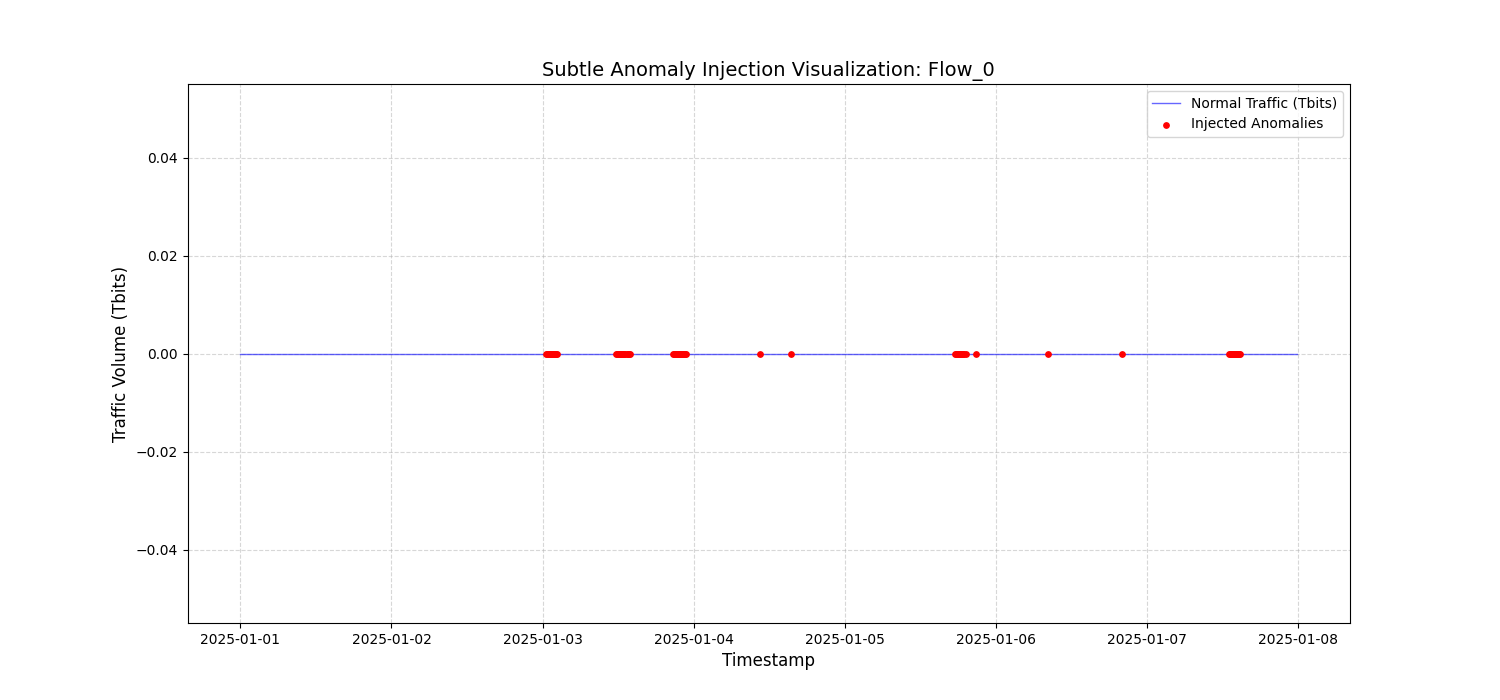
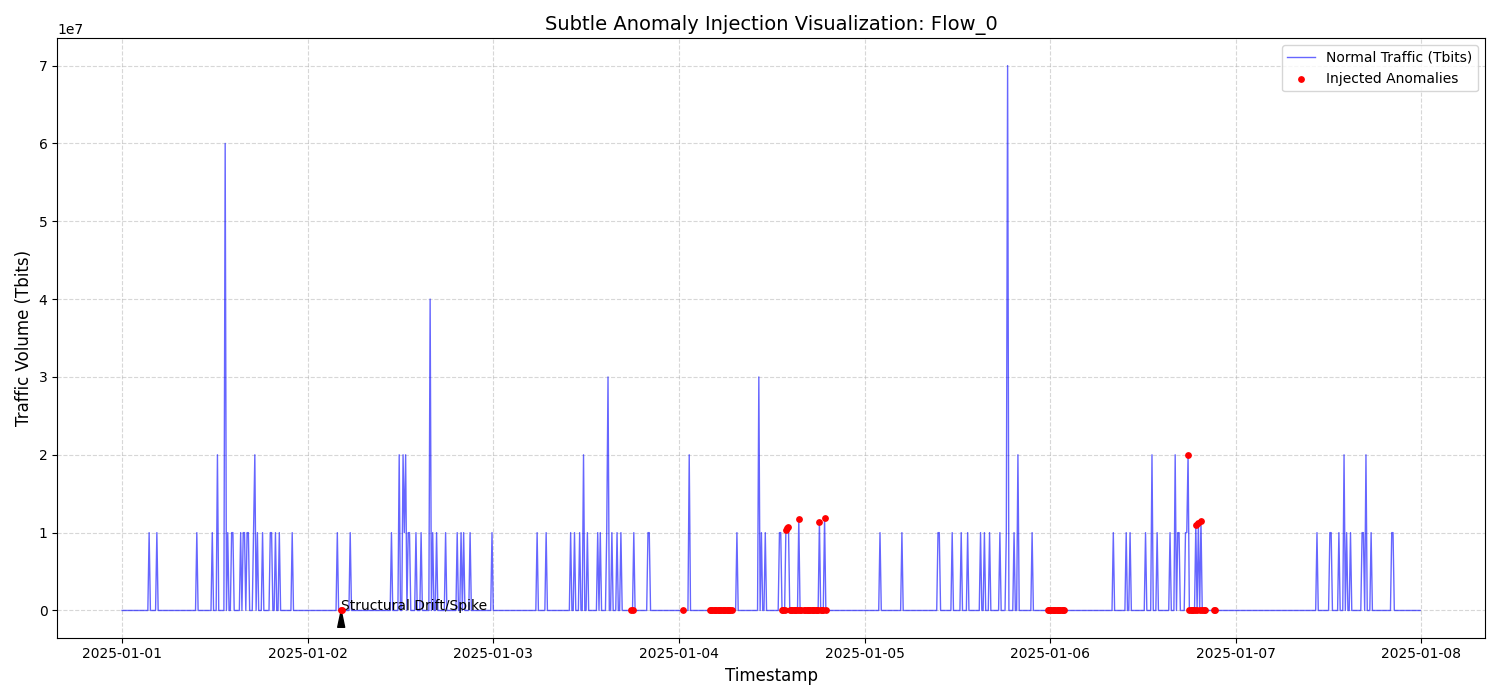
1

diff --git a/trafpy/generate4.py b/trafpy/generate4.py
@@ -10,13 +10,13 @@ START_DATE = '2025-01-01 00:00'
 END_DATE = '2025-01-08 00:00'
 FREQUENCY = '10min'
 OUTPUT_FILE = 'trafpy_master_univariate_data.csv'
-NUM_FLOWS = 1 # Starting with 1 to verify the scale first
+NUM_FLOWS = 1 # Verification run
 
 def generate_diurnal_thesis_dataset():
     time_index = pd.date_range(START_DATE, END_DATE, freq=FREQUENCY, inclusive='left')
     all_flows = []
 
-    print(f"Generating Flow with Raw TrafPy Scale...")
+    print("Generating Traffic with raw scale (no more zero flatline)...")
 
     for f_idx in range(NUM_FLOWS):
         flow_id = f"Flow_{f_idx}"
@@ -30,41 +30,42 @@ def generate_diurnal_thesis_dataset():
             diurnal_scale = 0.8 * np.sin(2 * np.pi * (ts.hour - 8) / 24)
             current_mu = base_mu + diurnal_scale
 
-            # We use 100 samples to create a stable but 'noisy' baseline
-            # No division at the end—we take the raw sum
-            flow_sizes = val_dists.gen_lognormal_dist(current_mu, sigma, 1, 1e9, int(100))
+            # Use int(1000) samples to create a robust baseline
+            # NO DIVISION: We take the raw sum so it shows up on the plot
+            flow_sizes = val_dists.gen_lognormal_dist(current_mu, sigma, 1, 1e7, int(1000))
             volumes[i] = sum(flow_sizes) 
 
         # 2. Inject SUBTLE Anomalies
-        # Multiplying by 1.2x - 1.5x ensures they scale with whatever 
-        # raw number TrafPy gives us.
+        # Multiplying ensures they scale naturally with the baseline
         for _ in range(5):
             # --- SUBTLE SPIKE ---
             s_idx = random.randint(150, len(time_index) - 20)
             dur = random.randint(1, 2)
-            volumes[s_idx : s_idx+dur] *= random.uniform(1.2, 1.5)
+            # Only 20-40% increase
+            volumes[s_idx : s_idx+dur] *= random.uniform(1.2, 1.4)
             is_anomaly[s_idx : s_idx+dur] = True
 
             # --- SUBTLE DRIFT ---
             d_idx = random.randint(150, len(time_index) - 50)
             while any(is_anomaly[d_idx : d_idx+15]): 
                 d_idx = random.randint(150, len(time_index)-50)
-            d_dur = random.randint(10, 15)
+            d_dur = random.randint(12, 18)
             
-            drift_ramp = np.linspace(1.0, 1.3, d_dur)
+            # Subtle 20% ramp
+            drift_ramp = np.linspace(1.0, 1.2, d_dur)
             volumes[d_idx : d_idx+d_dur] *= drift_ramp
             is_anomaly[d_idx : d_idx+d_dur] = True
 
         df = pd.DataFrame({
             'timestamp': time_index,
-            'traffic_volume_Tbits': volumes, # Label stays Tbits, but scale is raw
+            'traffic_volume_Tbits': volumes,
             'is_anomaly': is_anomaly,
             'flow_key_id': flow_id
         })
         all_flows.append(df)
 
     pd.concat(all_flows, ignore_index=True).to_csv(OUTPUT_FILE, index=False)
-    print(f"Dataset saved with RAW scale: {OUTPUT_FILE}")
+    print(f"Success! Raw scale dataset saved: {OUTPUT_FILE}")
 
 if __name__ == "__main__":
     generate_diurnal_thesis_dataset()
